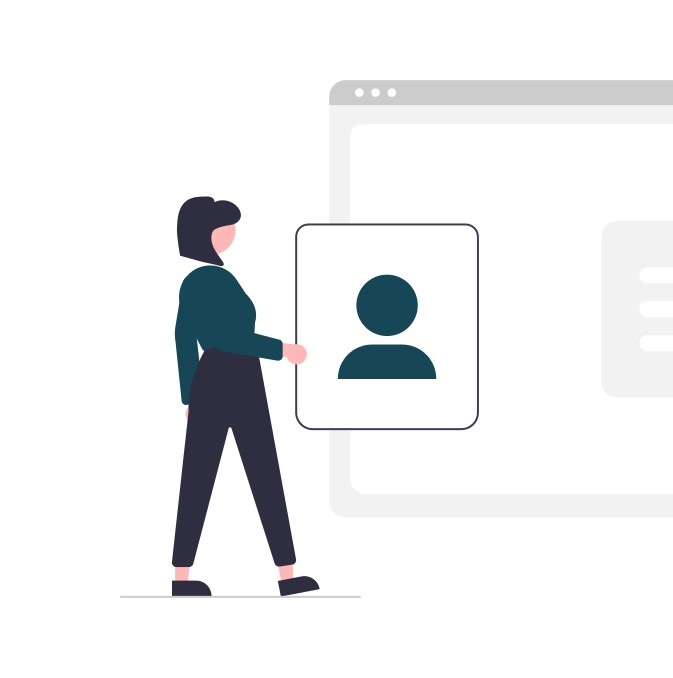
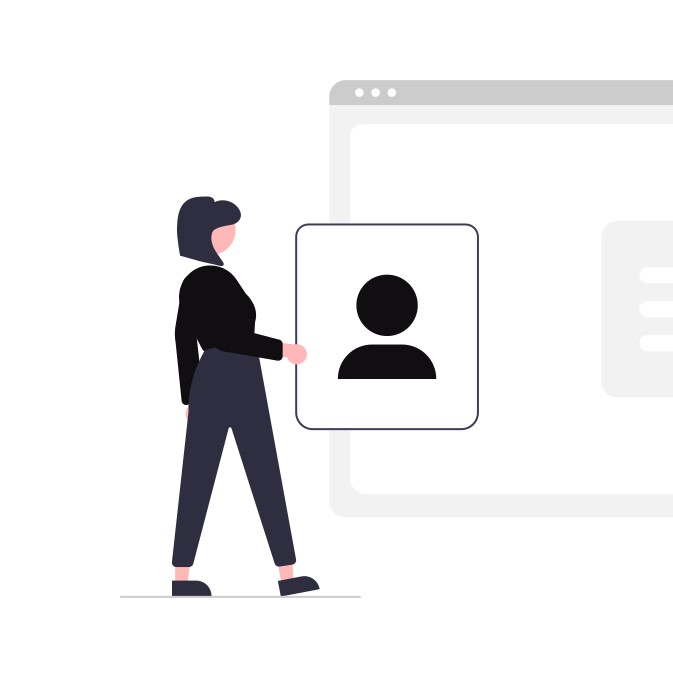
changes: 1.  changed the image colours 2. position of image in business

Changed region(s): [[0.2496, 0.3717, 0.4368, 0.5885], [0.4993, 0.4027, 0.6553, 0.5575]]

diff --git a/src/components/Business.jsx b/src/components/Business.jsx
@@ -229,8 +229,8 @@ const Business = () => {
         </h1>
         <div className="grid grid-cols-1 md:grid-cols-2 gap-8 w-full max-w-7xl">
           {/* Person 1 */}
-          <div className="flex flex-col items-center p-6 rounded-lg shadow-md bg-transparent mr-10">
-            <img src={Image} alt="Privacy" className="object-cover mb-4" />
+          <div className="flex flex-col items-center p-12 rounded-lg shadow-md bg-transparent mr-10">
+            <img src={Image} alt="Privacy" className="object-cover mb-10" />
           </div>
           {/* Person 2 */}
           <div className="flex flex-col items-center p-6 rounded-lg shadow-md bg-transparent">
